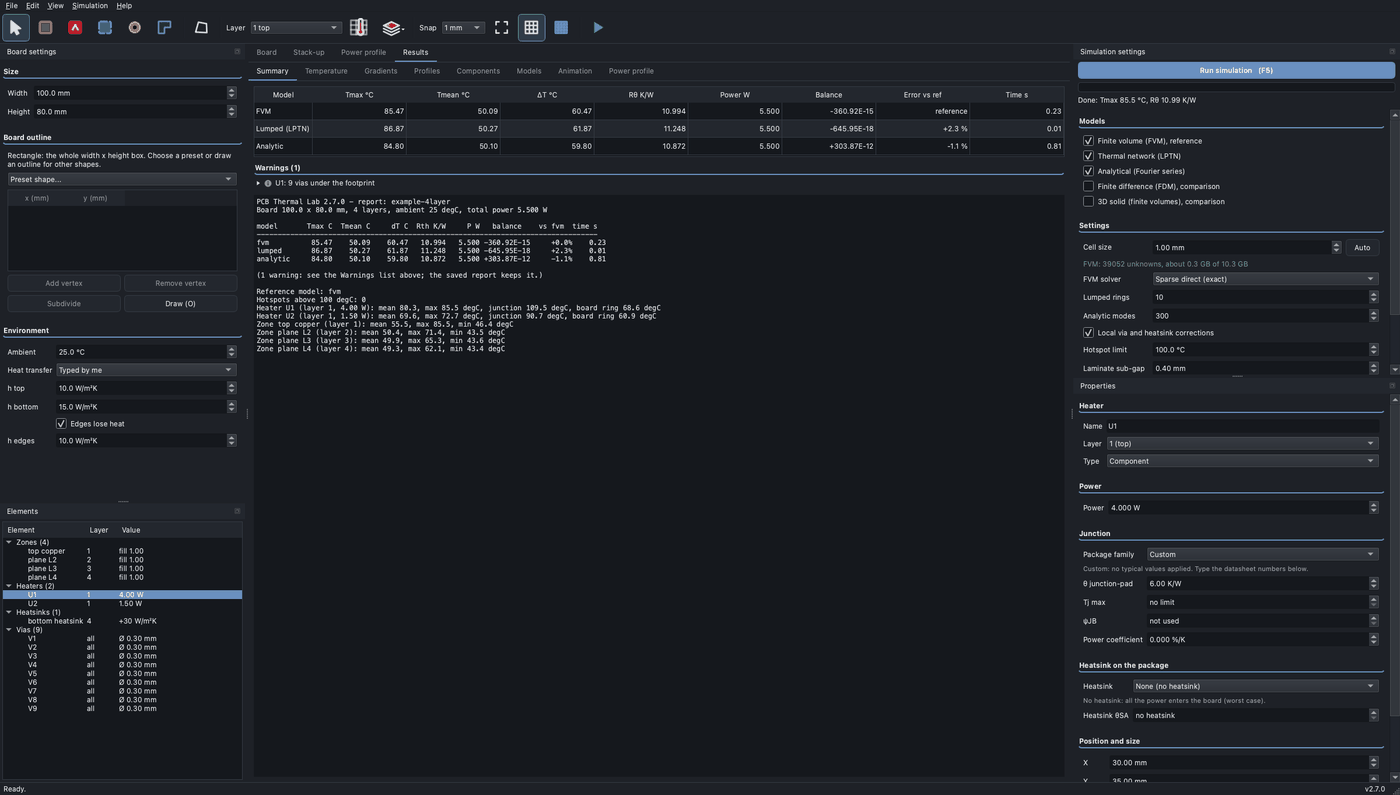
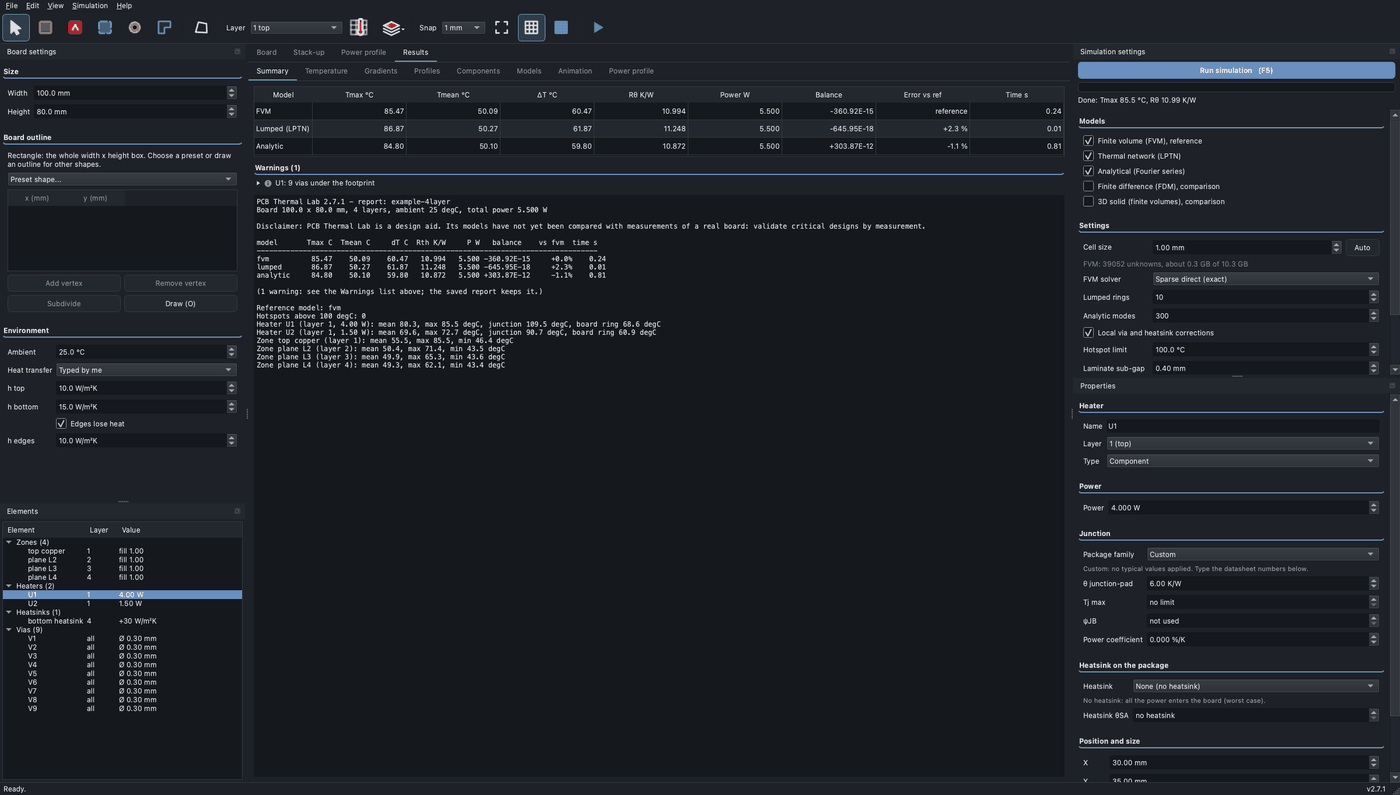
Prepare release 2.7.1: version, changelog, documents
Wave 1 of the 2.8.0 plan is released as a patch because it holds fixes,
documents and tests only. The version, the changelog, the README, the
versions chapter and the rules follow the reviewer's final opinion; the
Results summary picture shows the disclaimer line.

Claude-Session: https://claude.ai/code/session_01XgeLDd5tWg6CEJL9TQpCpU

Changed region(s): [[0.1843, 0.2717, 0.645, 0.483]]

diff --git a/pcbthermal/__init__.py b/pcbthermal/__init__.py
@@ -14,7 +14,7 @@ Typical use:
     from pcbthermal import Problem, SolverOptions, simulate
 """
 
-__version__ = "2.7.0"
+__version__ = "2.7.1"
 __author__ = "Pedro Silva (PMS Labs)"
 __project_url__ = "https://github.com/silvapmm/pcb-thermal-lab"
 

diff --git a/CHANGELOG.md b/CHANGELOG.md
@@ -3,35 +3,29 @@
 All notable changes are recorded here. The project follows [Semantic Versioning](https://semver.org/):
 MAJOR for incompatible changes, MINOR for new features, PATCH for fixes. Releases are tagged `vMAJOR.MINOR.PATCH` on `main`.
 
-## [Unreleased]
+## [2.7.1] - 2026-11-13
+
+A patch release: interface fixes, a disclaimer line in the reports, tests and documents. No result changes (the frozen numbers of 2.7.0 hold) and the project file format is unchanged.
 
 ### Fixed
 
-- **Enter in a Properties field keeps the focus in the field** (`fix/enter-focus-and-calculator-test`; display only, no number moves): the canvas reported its selection after every rebuild, also when nothing had changed, so an element shown in Properties that is not drawn on the active layer (two heaters on two layers picked in the element tree, or a selection set by code) lost its form, and the keyboard focus with it, at the first edit (the focus fell to the tab bar), and a selection on two layers was cut to the one drawn after any edit. `Canvas.rebuild` now reports the selection only when the rebuild changed it; the Properties form still refreshes after undo, redo and values written elsewhere (it listens to the document itself). **The maintainer's report (the first Enter after a change of the Layer box) was not reproduced through the real window offscreen** (Layer box, L, Shift+L, digits, element tree, warning links, Results tab shown), by the executor or by the review, so the fix covers the neighbouring path that was found, not necessarily the reported one. Tests `tests/test_enter_focus.py`.
-- **Duplicate (Ctrl+D) selects the copy in Properties and in the element list** (review of the same branch): the board selected the copies without telling the panels, so Properties and the list kept the originals and the next value typed changed the original. `MainWindow._duplicate`.
-- **The Results page no longer scrolls sideways in a narrow window, so the Profiles tab and its cut picture stay in view** (`fix/results-map-markers-and-cut-locator`; display only, no number moves): the Results tabs took the minimum width of their widest page (the Animation and Power profile controls, about 530 px), so at 900 x 700 with both docks open the Profiles tab scrolled sideways and its cut picture was out of view. Now only the page shown sets that width (the Animation and Power profile tabs still scroll to reach their controls), the Cut overlay box of the Profiles tab goes to a line of its own when the first line cannot hold it, and the cut picture is drawn again when the canvas crosses the width at which it moves between the inset over the curves and the strip above them. *(tests in `tests/test_map_markers_and_cut_locator.py`)*
-
-### Added
-
-- **Guard against third-party text in git** (`docs/third-party-text-guard`; tests and documents only, no number moves): `tests/test_third_party_text.py` fails when a tracked path is under `papers/`, when a tracked Markdown file carries OCR page markers, when a tracked file holds the SHA-256 or the title of the confidential ODB++ specification, or when an entry of `research/theory/BIBLIOGRAPHY.md` has no licence field (after the reviewer's opinion `releases/2.7.0/final-opinion/papers-in-git-opinion.md`).
-- **Licence and source address in the bibliography**: every entry of `research/theory/BIBLIOGRAPHY.md` carries `**Licence:**` and `**Source URL:**`; no licence is guessed (`not checked` is the default, `public domain` only for the US government reports).
+- **The Results page no longer scrolls sideways in a narrow window, so the Profiles tab and its cut picture stay in view**: only the tab shown sets the width of the Results page (the Animation and Power profile tabs still scroll to reach their controls), the Cut overlay box of the Profiles tab goes to a line of its own when the first line cannot hold it, and the cut picture is drawn again when it moves between the inset over the curves and the strip above them. At 900 x 700 with both docks open the Cut slider is very short; the arrow keys still move it.
+- **Enter in a Properties field keeps the focus in the field** for an element shown in Properties that is not drawn on the active layer (two heaters on two layers picked in the element tree, or a selection set by code): the canvas told the panel 'nothing selected' after every edit, which destroyed the form and its focus. The maintainer's report (the first Enter after a change of the Layer box) was not reproduced offscreen; the fix covers the neighbouring path that was found.
+- **Duplicate (Ctrl+D) selects the copy in Properties and in the element list**: they kept showing the original, so the next value typed changed the original.
 
 ### Changed
 
-- The OCR tool README and the README say that `tools.ocr` is run with `.venv-research/bin/python` (pypdfium2 is not in the project `.venv`).
-- `releases/regression-harness/reference/version_notes.json` has notes for the pairs v2.5.0 to v2.7.0 quoted from the CHANGELOG; the numeric table `docs/version-comparison.md` is regenerated at the next release.
-- **A disclaimer line in every report** (`fix/report-disclaimer`; text only, no number moves): the text report (the saved `report.txt` and the on-screen Results summary), the Markdown report (and so the command-line output), the JSON summary (key `disclaimer`) and the Power Calculator result carry one line, `results.DISCLAIMER`: PCB Thermal Lab is a design aid, its models have not yet been compared with measurements of a real board, validate critical designs by measurement. The note about the computed heat transfer coefficients stays as it was. User guide, chapter 18.
-
-### Tests
-
-- **Power Calculator dialog** (`tests/test_calculator_dialog.py`): the dialog is driven offscreen on the datasheet boards (CSD17308Q3 46.7 K/W, -1.4 %; JEDEC 2s2p 31.6 K/W, +2.9 % at the dialog's 0.5 mm cell) and closed while its calculation runs; the greyed fields, the case selector and the Help page stay in `tests/test_calculator_window.py`.
-- **The JEDEC row of `docs/calculators.md` 2.1 and of the calculator help corrected** (documents only): they quoted the 2.6.0 program (31.4 K/W, +3.4 %); the 2.7.0 program gives 31.6 K/W, 1.029 W, +2.9 % at 0.5 mm (32.2 K/W, +0.8 % at 1 mm), and the board without vias 74.6 K/W (70.9); the 2.7.0 documentation review had called 2.1 current. The help no longer says that the Gerber import is not in the interface.
+- **A disclaimer line in every report**: the text report (saved and on screen), the Markdown report and so the output of `python -m pcbthermal run`, the JSON summary (new key `disclaimer`) and the Power Calculator result say that PCB Thermal Lab is a design aid whose models have not yet been compared with measurements of a real board, and that critical designs are to be validated by measurement. A script that reads the first lines of the command-line output sees one more line.
 
 ### Docs
 
-- **The outline pictures no longer show a part off the board** (`docs/screenshots-outline-heater`; pictures only): in `outline.png` and `outline_temperature.png` the heater U2 (0 W) sat inside the cut-away corner of the L; `examples/make_screenshots.py` now puts it in the other arm (x 75 to 81 mm, y 10 to 16 mm) with 0.5 W, and the two pictures were regenerated.
+- The JEDEC 2s2p row of the Power Calculator help and of `docs/calculators.md` 2.1 quoted the 2.6.0 program (31.4 K/W, +3.4 %); the 2.7.0 program gives 31.6 K/W, +2.9 % at the 0.5 mm cell. The help no longer says that the Gerber import is not in the interface.
+- Screenshots: the outline pictures and the warnings picture no longer show a part off the board; the Results summary pictures show the disclaimer.
+- Every entry of the research bibliography carries its licence and source address; the OCR tool is run from `.venv-research`; the version-comparison notes cover v2.5.0 to v2.7.0; the integration branch is called `development`.
 
-- **The warnings picture no longer shows a part hanging off the board** (`docs/screenshots-warnings-placement`; pictures only): `examples/make_screenshots.py` places the second source X1 fully on the RP2040 board over copper, and the Results summary picture of the imported board gets a genuine alert (the chip's junction limit exceeded) instead; `editor_warnings.png` and `results_summary_imported.png` regenerated.
+### Tests
+
+- `tests/test_third_party_text.py` (no third-party text, OCR output or confidential fingerprint in git; a licence field on every bibliography entry), `tests/test_report_disclaimer.py`, `tests/test_enter_focus.py`, `tests/test_calculator_dialog.py` (the Power Calculator dialog driven on the datasheet boards), and the narrow-window cases in `tests/test_map_markers_and_cut_locator.py`.
 
 ## [2.7.0] - 2026-11-13
 

diff --git a/docs/versions.md b/docs/versions.md
@@ -4,17 +4,31 @@ What was implemented in every version (with the module where it lives and how it
 
 ---
 
-## Summary of the current version (2.7.0, 2026-11-13)
+## Summary of the current version (2.7.1, 2026-11-13; 2.7.0 is the last version on `main` until the 2.7.1 merge)
 
 * **Interface**: the GUI redesign (boxes, the Warnings (N) accordion, layer keys L / Shift+L and 0..9, export of the maps over the copper), the cut overlay of the profile plots, the coldest-point marker, shorter hints, the hole categories on the editor canvas, five small bug fixes of the window and the import.
 * **Models**: the edge film from the centroid of the cut cell for drawn and imported copper, the outline mask of imported copper, the physical slabs of the simple stack-up, the harmonic FDM face and the FDM copper-edge faces, the ray rule of the via rim on imported copper, the Lumped lone far via; edge-laminate warnings that quote an independent finite-element solution (`research/independent-fem-edge`).
 * **Release state**: 2.7.0 is released (`main`, tag `v2.7.0`); the numbers moved on purpose are held to the new frozen reference `tests/regression/data/v2.7.0.json`.
-* **Done for 2.8.0 (branch `fix/report-disclaimer`)**: one disclaimer line (`results.DISCLAIMER`, a design aid never compared with a measured board) in the text and Markdown reports, the on-screen summary, the command-line output, the JSON summary and the Power Calculator result; tests `tests/test_report_disclaimer.py`; no number moves.
+* **Released in 2.7.1 (branch `fix/report-disclaimer`)**: one disclaimer line (`results.DISCLAIMER`, a design aid never compared with a measured board) in the text and Markdown reports, the on-screen summary, the command-line output, the JSON summary and the Power Calculator result; tests `tests/test_report_disclaimer.py`; no number moves.
 * **Next**: 2.8.0 (investigations that may become features), see 'Planned: 2.8.0' below; every version is listed newest first after this summary.
 
 ---
 
-## 2.7.0 - 2026-11-13: the GUI redesign, edge-film and slab corrections, the independent finite-element reference (prepared on `develop`, not yet on `main`)
+## 2.7.1 - 2026-11-13: interface fixes and a disclaimer in the reports
+
+A patch release of the first wave of the 2.8.0 plan (fixes, documents and tests; no number moves, the frozen file `v2.7.0.json` holds, the project format is unchanged).
+
+* **Results page in a narrow window** (`fix/results-map-markers-and-cut-locator`): `ResultsView._size_to_current_page`, `PlotTab._place_cut_overlay`, `plots.profile_has_strip`; tests in `tests/test_map_markers_and_cut_locator.py`. **Known limit**: at 900 x 700 with both docks open the Cut slider of Profiles is very short; the arrow keys move it (see 'Planned: 2.8.0').
+* **Properties focus** (`fix/enter-focus-and-calculator-test`): `BoardView.rebuild` reports the selection only when it changed; `tests/test_enter_focus.py`. The reported sequence was not reproduced offscreen.
+* **Duplicate selects the copies in Properties and the list** (same branch): `MainWindow._duplicate`.
+* **Disclaimer** (`fix/report-disclaimer`): `results.DISCLAIMER` in the text, Markdown and JSON reports and the Power Calculator result, the on-screen summary and the command-line output; `tests/test_report_disclaimer.py`; user guide chapter 18.
+* **Documents and guards**: the JEDEC numbers of the calculator (`docs/calculators.md` 2.1), the third-party text guard (`tests/test_third_party_text.py`) and licences in the bibliography, the OCR environment, the version notes, the screenshots, the branch rename.
+
+How it was tested: the reviewer's final opinion (`releases/2.7.1/final-opinion/README.md`: quick set 1028 passed, an offscreen drive of the window with 29 checks), the frozen numbers at 2, 1 and 0.5 mm, and the whole battery on the final tree (to be recorded at the release).
+
+---
+
+## 2.7.0 - 2026-11-13: the GUI redesign, edge-film and slab corrections, the independent finite-element reference
 
 * *How 2.7.0 was tested*: whole battery (open boards and Gerber samples present): `3478 passed, 9 skipped, 2 xfailed, 1 warning in 41 min 34 s` (on the merge of `fix/gui-warning-icons-270` with `develop` 5d95c54f; the commits since are documents only; the refreeze branch gave `3445 passed` in 40 min 48 s before that branch); 5 passed on `tests/test_format_compat_245.py` with `PCBT_COMPAT_V245=1`; 4 passed on `tests/test_no_secrets.py` with `PCBT_SCAN_KEY_VALUES=1`; 317 passed on `tests/regression` at 2, 1 and 0.5 mm against `tests/regression/data/v2.7.0.json` with no pending file; `study_diff.py --strict` against v2.6.0: 0 alarms (249 records, 171 bit-identical, 78 moved, 1008 numbers expected, 0 unexplained; table `releases/regression-harness/reference/expected_shifts_2.7.0.json`). An earlier battery on `fd49b969` gave `3432 passed, 9 skipped, 2 xfailed, 1 warning in 40 min 18 s`.
 
@@ -344,11 +358,13 @@ There is no separate 2.6.1 release (maintainer's decision): everything below, th
 
 ### Planned: 2.8.0 (a version of confidence, not of features)
 
-**The aim of 2.8.0 is confidence**: settle the model questions with independent references, correct or bound the known large errors, and fix the small interface defects. It is NOT a feature release; the numbering rule allows any `feature/` branch to give a minor number, but the goal is stability. There is **no 2.7.1**: the Profiles-tab narrow-window fix (merged into `development`) is released with 2.8.0. Dropped items stay dropped (vector copper, the BOM role). The electro-thermal coupling is a wish list item, not planned (Ideas, item 1).
+**The aim of 2.8.0 is confidence**: settle the model questions with independent references, correct or bound the known large errors, and fix the small interface defects. It is NOT a feature release; the numbering rule allows any `feature/` branch to give a minor number, but the goal is stability. The first wave (the Profiles-tab narrow-window fix, the Properties focus and Duplicate fixes, the disclaimer, the documents and the guard) was released as **2.7.1**, a patch release because it holds fixes only; this plan starts from 2.7.1. Dropped items stay dropped (vector copper, the BOM role). The electro-thermal coupling is a wish list item, not planned (Ideas, item 1).
 
 **The measured board (G1) will happen, but it does not block the version**: when the data exists (the colleague's board; request list in `research/ROADMAP.md` section 5) the comparison study runs on its own branch `research/measured-board-colleague`; if the data is late, 2.8.0 ships without it and the Results-summary line 'never compared with a measured copper board' stays.
 
 Rules for every wave: branches that touch `fvm.py`, `fdm.py`, `laminate.py`, `viawell.py`, `lumped.py`, `checks.py` or `docs/theory.md` are merged one after another; each branch goes executor, reviewer, maintainer with the whole battery before the merge; a number-moving fix writes its pending frozen-number file and the refreeze happens once, after the version bump. Type: F feature, X fix, I investigation, V validation, D documents or tools. Size: S under a day of agents, M a few days, L a week or more. Frozen: whether the frozen numbers move.
+
+**Released in 2.7.1 (wave 1)**: the rows below that are marked done in the 2.7.1 chapter (narrow window, Enter focus, Duplicate, the disclaimer, the third-party guard, the JEDEC numbers, the OCR environment, the version notes). Small interface item left for 2.8.0: the Cut slider of Profiles is very short at 900 x 700 with both docks open (the arrow keys move it; give it a minimum width or a line of its own).
 
 **Wave 1: cheap and safe (no number moves)**
 

diff --git a/CLAUDE.md b/CLAUDE.md
@@ -221,7 +221,7 @@ PCBT_COMPAT_V245=1 QT_QPA_PLATFORM=offscreen .venv/bin/python -m pytest -q tests
 
 ## Branches and Versions
 
-- `main`: released versions only, each tagged `vMAJOR.MINOR.PATCH` (annotated tag). Current release: **v2.7.0** (2026-11-13; merged into `main` with `--no-ff` as 'Release 2.7.0' and tagged `v2.7.0`, pushed, GitHub release made; 2.6.0 was 2026-11-07, 2.5.2 2026-11-07, 2.5.1 2026-11-06, 2.5.0 2026-11-05). Numbering (maintainer's rule): only fixes give a patch number, any `feature/` item in the version makes it a minor number: 2.7.0 held a `feature/` branch (the GUI redesign; it was first planned as 2.6.1) and **2.8.0 is the next minor**. `pcbthermal.__version__` stays the released number on `development` until the release commit that bumps it.
+- `main`: released versions only, each tagged `vMAJOR.MINOR.PATCH` (annotated tag). Current release: **v2.7.0** (2.7.1 is prepared on `development`, not on `main`; v2.7.0 was released 2026-11-13; merged into `main` with `--no-ff` as 'Release 2.7.0' and tagged `v2.7.0`, pushed, GitHub release made; 2.6.0 was 2026-11-07, 2.5.2 2026-11-07, 2.5.1 2026-11-06, 2.5.0 2026-11-05). Numbering (maintainer's rule): only fixes give a patch number, any `feature/` item in the version makes it a minor number: 2.7.0 held a `feature/` branch (the GUI redesign; it was first planned as 2.6.1) and **2.8.0 is the next minor**. `pcbthermal.__version__` stays the released number on `development` until the release commit that bumps it.
 - `development`: integration branch for the next version; every fix, feature, documents and research branch starts from it and merges back into it when finished (see the branch rule in "Git Workflow"); `main` gets `development` only at a release.
 - Tag `legacy-wxpython-1.0.0` marks the original wxPython program (version 1.0.0), kept for reference.
 - Version policy: semantic versioning. The only definition of the version is `pcbthermal/__version__` (`pcbthermal/__init__.py`); it is shown in the GUI
@@ -363,11 +363,13 @@ The main session keeps the conversation with the maintainer (in Portuguese), dec
 
 **The rename is done**: the integration branch `develop` is now `development` (local and `origin`); the maintainer deleted `origin/develop` and the old names `research/analytic-2-6` and `research/laminate-2-6`. The state after 2.7.0: `main` d2f17880 = tag `v2.7.0`, `development` is the branch every work branch starts from.
 
-**2.8.0 is in progress** (maintainer, 2026-11-13): the next release is named 2.8.0 and there is no 2.7.1 (the Profiles-tab narrow-window fix is already merged into `development`). The aim is a version of CONFIDENCE, not of features: any `feature/` branch is allowed by the numbering rule, but the goal is stability. The plan is in `docs/versions.md` 'Planned: 2.8.0' in three waves: wave 1 (cheap and safe, no number moves) is in progress; wave 2 (investigations before any number moves: FEM extensions A43, the transient reference, E13, 5a, A18, A27, A32/A40, A30); wave 3 (adopted fixes, then B5, the element-tree filter box, paint and erase of the imported mask, heater modes). The measured board (G1) will happen but does not block the version; the electro-thermal coupling is a wish list item without a version; vector copper and the BOM role stay dropped. Housekeeping: the old `docs/final-opinion-260` branch name, which the maintainer deletes by hand. The local, git-ignored library of papers is in `papers/` (see `papers/README.md`).
+**2.8.0 is in progress** (maintainer, 2026-11-13): the next release is named 2.8.0 and wave 1 of the plan is released first as the patch **2.7.1** (prepared on `development`, not on `main`; the reviewer's final opinion is `releases/2.7.1/final-opinion/README.md`). The aim is a version of CONFIDENCE, not of features: any `feature/` branch is allowed by the numbering rule, but the goal is stability. The plan is in `docs/versions.md` 'Planned: 2.8.0' in three waves: wave 1 (cheap and safe, no number moves) is done and is 2.7.1; wave 2 (investigations before any number moves: FEM extensions A43, the transient reference, E13, 5a, A18, A27, A32/A40, A30); wave 3 (adopted fixes, then B5, the element-tree filter box, paint and erase of the imported mask, heater modes). The measured board (G1) will happen but does not block the version; the electro-thermal coupling is a wish list item without a version; vector copper and the BOM role stay dropped. Housekeeping: the old `docs/final-opinion-260` branch name, which the maintainer deletes by hand. The local, git-ignored library of papers is in `papers/` (see `papers/README.md`).
 
 ## Decisions Log
 
-- **2.8.0 is a version of confidence** (maintainer, 2026-11-13; plan in `docs/versions.md` 'Planned: 2.8.0', from the reviewer's planning opinion): three waves (cheap and safe; investigations before numbers move; adopted fixes, then features); no 2.7.1; G1 happens when the data exists and does not block; the electro-thermal coupling moved to the wish list (Ideas, item 1); `fix/results-map-markers-and-cut-locator` (Profiles tab in a narrow window, reviewed: GO) merged into `development`.
+- **2.7.1 is wave 1 of the 2.8.0 plan, released as a patch** (maintainer, 2026-11-13; this supersedes 'there is no 2.7.1'): everything merged into `development` since v2.7.0 holds fixes, documents and tests only (the Results page in a narrow window, the Properties focus after Enter, Duplicate, a disclaimer line in the reports, the JEDEC numbers, the third-party text guard), so by the numbering rule it is a patch number; no number moves and the project format is unchanged. The reviewer's final opinion is `releases/2.7.1/final-opinion/README.md` (GO on the release commit and the whole battery). 2.7.1 is prepared on `development` and is NOT on `main` yet; 'Current release' stays v2.7.0 until the merge. The next release is still named 2.8.0.
+
+- **2.8.0 is a version of confidence** (maintainer, 2026-11-13; plan in `docs/versions.md` 'Planned: 2.8.0', from the reviewer's planning opinion): three waves (cheap and safe; investigations before numbers move; adopted fixes, then features); wave 1 is released as 2.7.1 (see the next entry); G1 happens when the data exists and does not block; the electro-thermal coupling moved to the wish list (Ideas, item 1); `fix/results-map-markers-and-cut-locator` (Profiles tab in a narrow window, reviewed: GO) merged into `development`.
 
 - **Vector polygons for imported copper and the BOM role are dropped; the power-list CSV is only an idea** (maintainer, after 2.7.0; reviewer's opinion `releases/2.7.0/final-opinion/vector-and-bom-opinion.md`): the raster matches the vector areas within 0.2 % and the temperatures within 0.04 %, so vector copper is reopened only for export or a polygon import; a BOM has no powers and the placement file carries designator, footprint and value. `docs/versions.md` Planned items 10 and 5 are marked dropped, a power list from a CSV by designator is Ideas item 10 ('to be looked at later', not a 2.8.0 item), `research/ROADMAP.md` E14 and E15 are closed. Kept as the record: `package.KINDS` 'bom', `SOURCES_TIP`, `research/bom-role-and-close-hook` and the branch `feature/bom-role-and-close-hook`.
 

diff --git a/README.md b/README.md
@@ -1,6 +1,6 @@
 # PCB Thermal Lab
 
-[![version](https://img.shields.io/badge/version-2.7.0-blue)](CHANGELOG.md) [![tests](https://img.shields.io/badge/tests-3478%20passed-brightgreen)](tests)
+[![version](https://img.shields.io/badge/version-2.7.1-blue)](CHANGELOG.md) [![tests](https://img.shields.io/badge/tests-3478%20passed-brightgreen)](tests)
 
 Thermal simulation of printed circuit boards. Draw copper zones, heaters, vias and heatsinks on a multi-layer board, run the models and inspect temperatures,
 gradients, hotspots, component junction temperatures and the heat evolution in time.
@@ -152,6 +152,7 @@ In the program: **Help - User guide** (`F1`; the same file is `pcbthermal/help/i
 
 Semantic versioning; the version is defined in `pcbthermal/__init__.py` and shown in the title bar, status bar, About box and every report. Details of each version are in [`docs/versions.md`](docs/versions.md).
 
+- **2.7.1** (2026-11-13): a patch release: the Results page no longer scrolls sideways in a narrow window, the Properties focus and Duplicate fixes, a disclaimer line in every report, tests and documents; no result changes.
 - **2.7.0** (2026-11-13): the GUI redesign (boxes, a collapsible Warnings list, layer keys), the cut overlay of the profile plots, the coldest-point marker, the edge film from the centroid for drawn and imported copper, the physical slabs of the simple stack-up, the harmonic FDM face and the FDM copper-edge faces, the ray rule of the via rim on imported copper, the Lumped lone via, the hole categories, edge warnings quoting an independent finite-element solution (`research/independent-fem-edge`), and the five small bug fixes; the frozen numbers refrozen once (details in [`CHANGELOG.md`](CHANGELOG.md)).
 - **2.6.0** (2026-11-07): model corrections after the independent reviews (cut cells, laminate edge band, via barrel, Analytic per-layer edge, 3D solid slabs, face-down convection, fast square waves), the project package `.pcbtz`, a single Layer box, the Display views on the board; the frozen numbers refrozen once.
 - **2.5.2** (2026-11-07): fixes: non-finite and absurd lengths refused on load and never written, the Pulsonix placement preamble, the licence header on every file, the re-import of a different board, theory text corrections (details in [`CHANGELOG.md`](CHANGELOG.md)).
